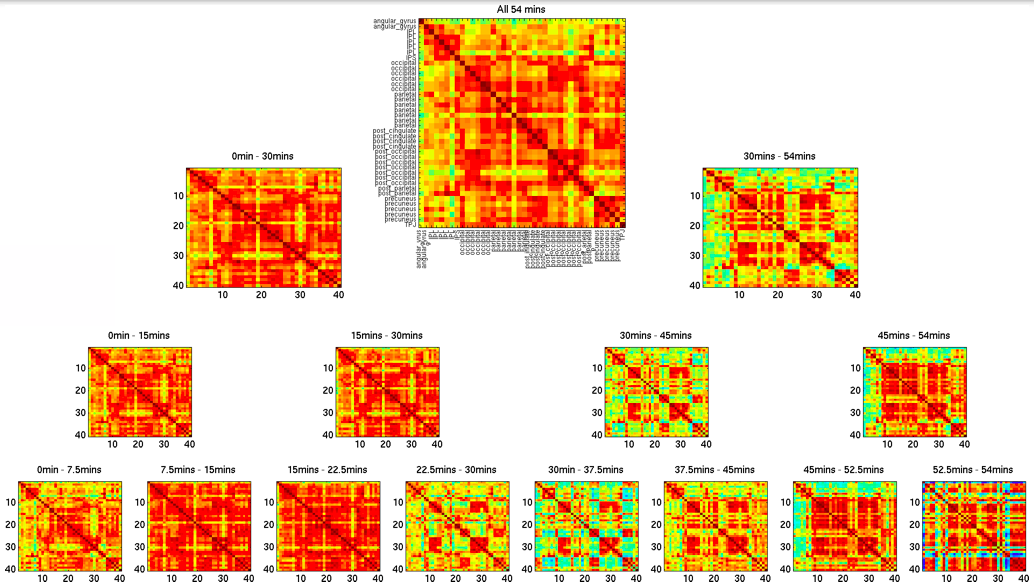
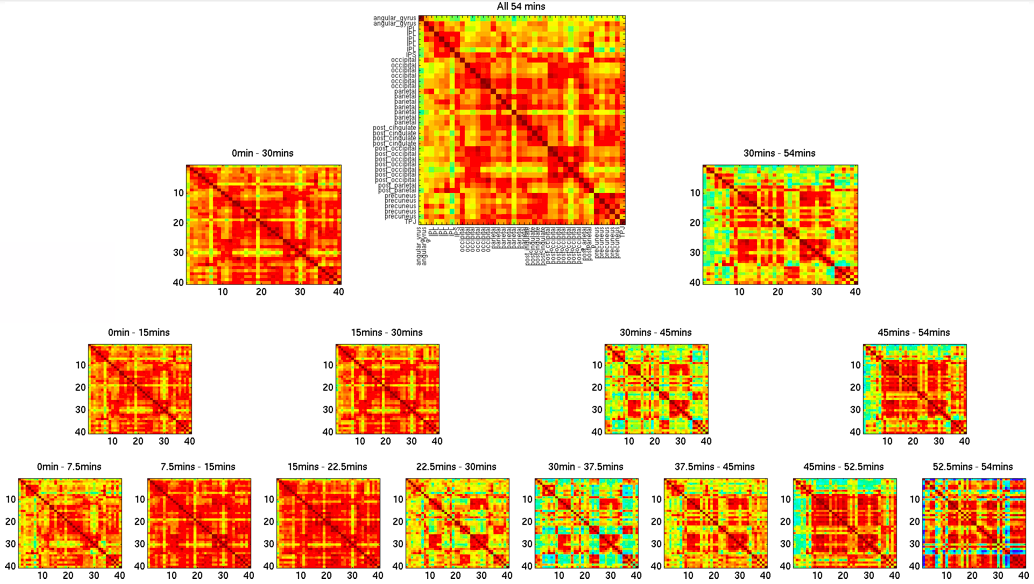
figure location adjustments

Changed region(s): [[0.0, 0.5548, 1.0, 0.9555], [0.0, 0.0, 1.0, 0.524], [0.6499, 0.2466, 0.8356, 0.524]]

diff --git a/_pages/research/analytical.md b/_pages/research/analytical.md
@@ -82,10 +82,10 @@ A key question, however, remained: what about the spontaneous reconfigurations o
 {: .text-justify}
 Alright, back to methods—since that’s the focus of this page. Let me highlight one purely methodological study I’ve conducted on time-varying FC. The first is a method comparison study led by my former mentee, [Dr. Hua (Oliver) Xie](https://scholar.google.com/citations?user=j5xPZdAAAAAJ&hl=en), who was interested in identifying the most effective way to detect and characterize dynamic FC. This was no small task. Once the scientific community embraced the idea that time-varying FC might hold meaningful information, a proliferation of analytical methods emerged—ranging from various flavors of sliding-window correlation and dynamic conditional correlation (DCC) to multiplication of temporal derivatives and jackknife correlation, among others.
 
-<img align="center" src="https://javiergcas.github.io/files/research/tvfc/tvfc_methods_comp.jpg" width="1100 px">
+<a href="https://www.sciencedirect.com/science/article/pii/S1053811918321815"><img align="right" src="https://javiergcas.github.io/files/research/tvfc/tvfc_methods_comp.jpg" width="500 px" style="padding: 10px"></a>
 
 {: .text-justify}
-Oliver and I set out to compare seven of the most widely used methods for estimating time-varying FC (see figure above). We evaluated both their mathematical similarities and differences, as well as their practical performance in detecting FC reconfigurations linked to ongoing cognitive dynamics. For the latter, we relied on clustering analyses and evaluation metrics drawn from [unsupervised machine learning](https://www.ibm.com/think/topics/unsupervised-learning).
+Oliver and I set out to compare seven of the most widely used methods for estimating time-varying FC (see figure on the right). We evaluated both their mathematical similarities and differences, as well as their practical performance in detecting FC reconfigurations linked to ongoing cognitive dynamics. For the latter, we relied on clustering analyses and evaluation metrics drawn from [unsupervised machine learning](https://www.ibm.com/think/topics/unsupervised-learning).
 
 {: .text-justify}
 Our results, reported [here](https://www.sciencedirect.com/science/article/pii/S1053811918321815), showed that all window-based methods performed well for commonly used window lengths (WL ≥ 30 s), with the sliding-window methods (with and without normalization) and the hybrid dynamic conditional correlation with moving average (DCC_MA) approach performing slightly better. For shorter windows (WL ≤ 15 s), DCC_MA and jackknife correlation yielded the most robust results. These findings have since helped researchers make more informed choices about how best to characterize time-varying FC in their own studies.
